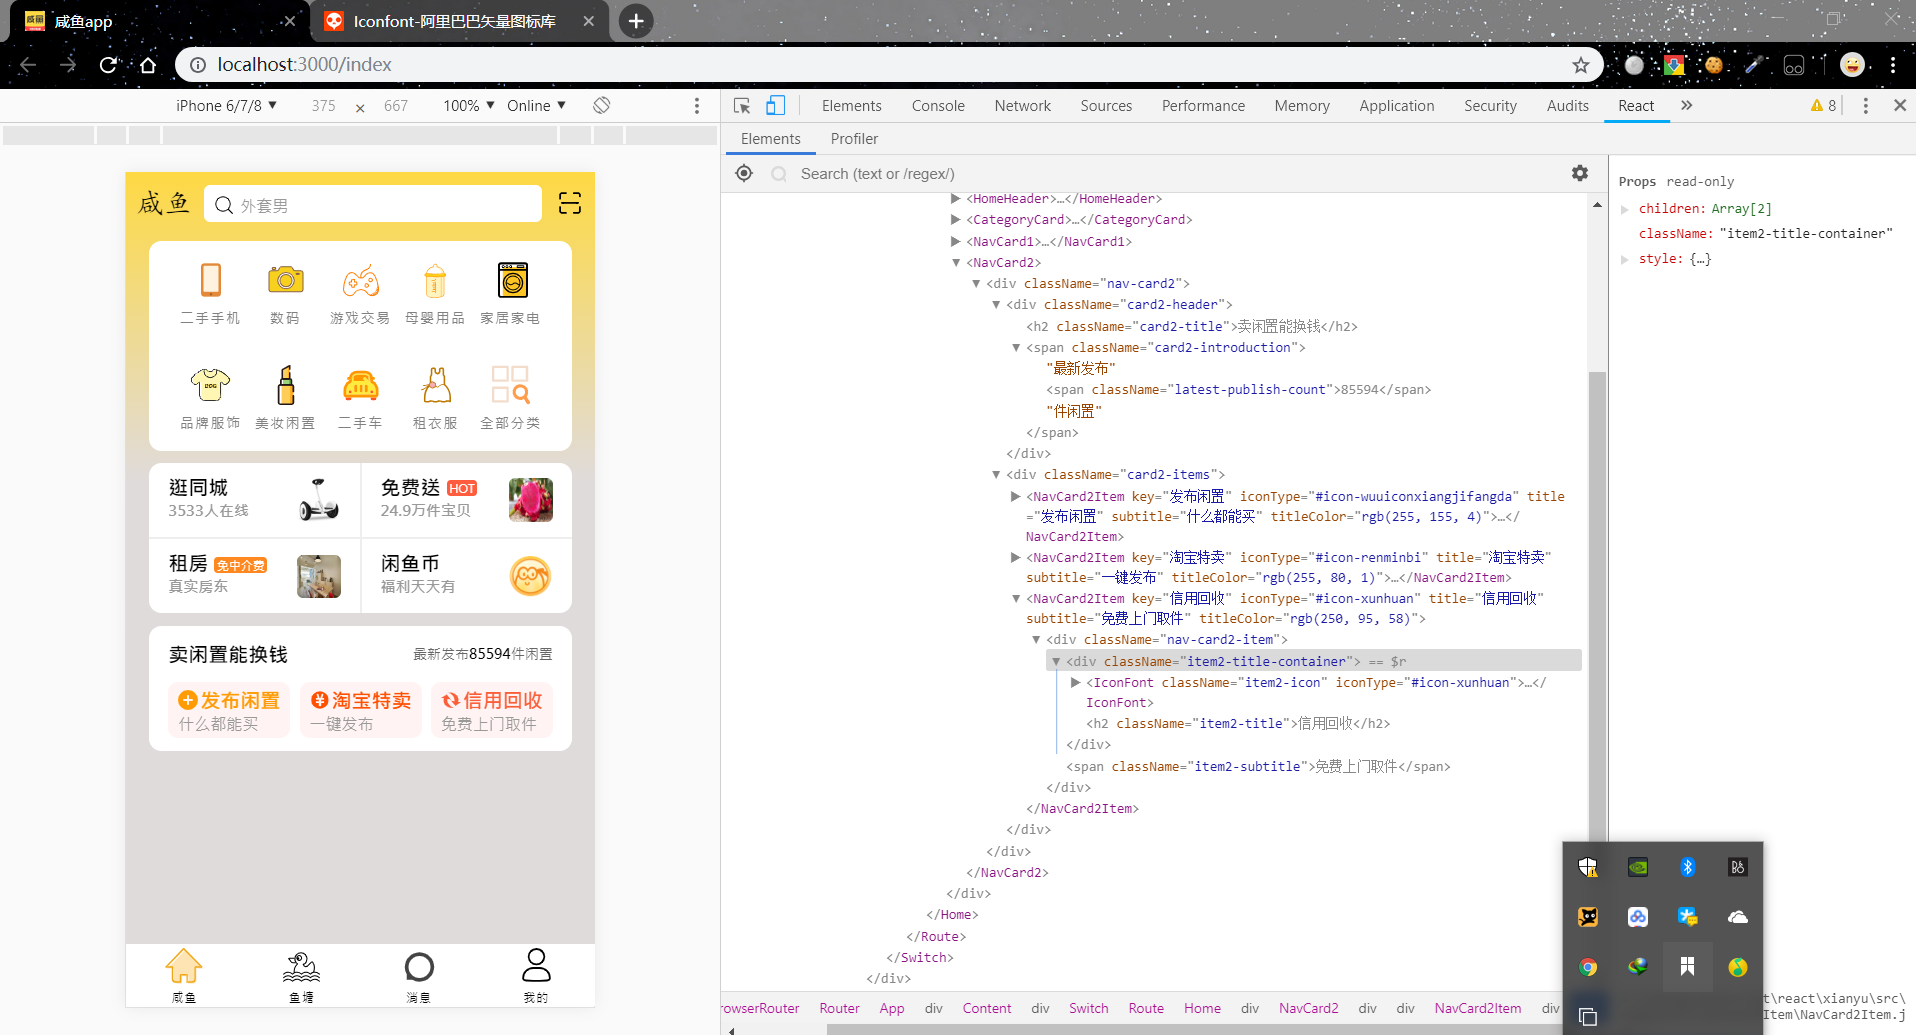
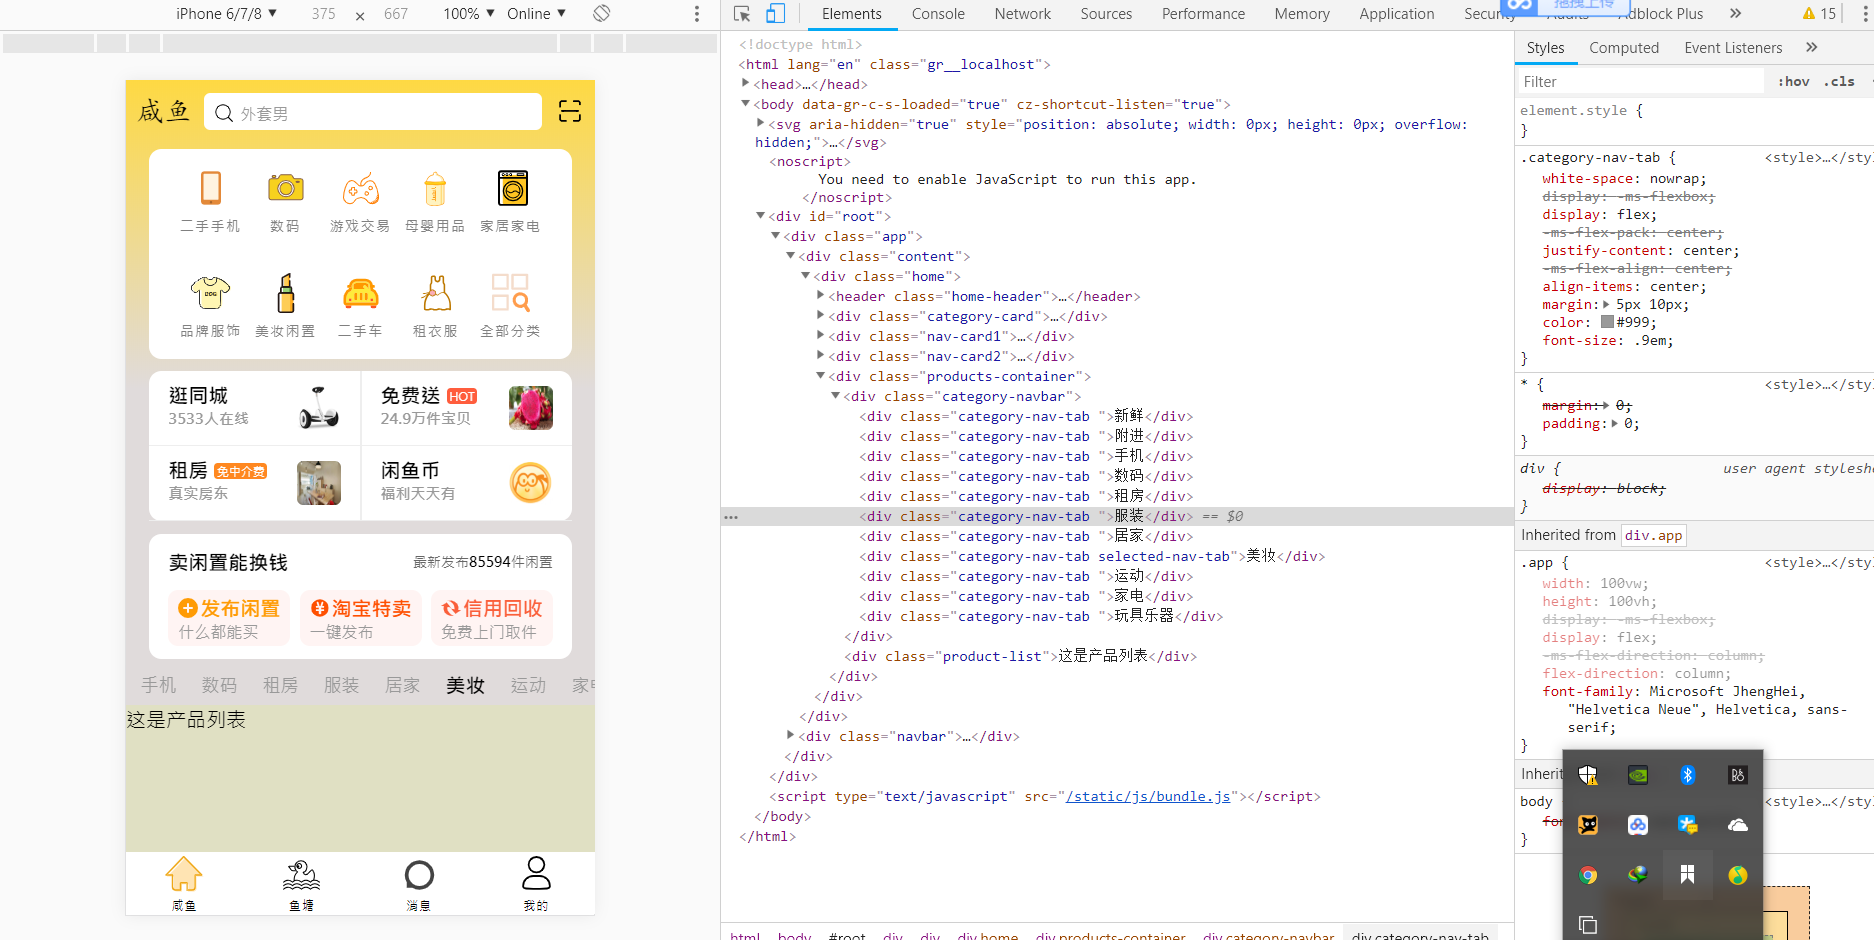
CategoryNavBar compeleted

diff --git a/src/components/categoryNavbar/CategoryNavBar.jsx b/src/components/categoryNavbar/CategoryNavBar.jsx
@@ -1,5 +1,6 @@
 import React, { Component } from 'react';
 import CategoryNavTab from '../categoryNavTab/categoryNavTab';
+import { findDOMNode } from 'react-dom';
 import PropTypes from 'prop-types';
 import './CategoryNavBar.scss'
 
@@ -8,10 +9,21 @@ export class CategoryNavBar extends Component {
 
     }
 
+    static updatePaths = {
+        NO_UPDATE: Symbol('No update, default'),
+        SELECT_CATEGORY: Symbol('select category ')
+    }
+
     constructor(props) {
-        super(props)
+        super(props);
 
         this.state = {
+            halfWindowWidth: document.body.clientWidth / 2 | 0,
+            navbarPadding: 15,
+            tabMarginX: 10,
+            scrollLeft: 0,
+            currentCategoryIndex: 0,
+            updatePath: CategoryNavBar.updatePaths.NO_UPDATE,
             categoryTabs: [
                 {
                     category: '新鲜',
@@ -58,38 +70,78 @@ export class CategoryNavBar extends Component {
                     isSelected: false
                 },
             ]
-        }
+        };
     }
 
-    handleSelect = (category, event) => {
-        console.log({ selected: category })
-        for (const tab of this.state.categoryTabs) {
+    handleSelect = (category) => {
+        let currentCategoryIndex;
+        this.state.categoryTabs.forEach((tab, index) => {
             if (tab.isSelected && tab.category === category) return;
             if (tab.category === category) {
                 tab.isSelected = true;
+                currentCategoryIndex = index;
             } else {
                 tab.isSelected = false;
             }
-        }
+        })
 
         this.setState({
-            categoryTabs: this.state.categoryTabs
+            updatePath: CategoryNavBar.updatePaths.SELECT_CATEGORY,
+            categoryTabs: this.state.categoryTabs,
+            currentCategoryIndex,
         });
-        console.log({ categoryTabs: this.state.categoryTabs});
     }
-    
+
+    componentDidUpdate() {
+        if (this.state.updatePath === CategoryNavBar.updatePaths.SELECT_CATEGORY) {
+            this.state.updatePath = CategoryNavBar.updatePaths.NO_UPDATE;
+            const tabs = this.state.categoryTabs;
+            const selectedTabIndex = this.state.currentCategoryIndex;
+            const halfWindowWidth = this.state.halfWindowWidth;
+
+            // 计算选中的标签中心距离类别导航栏最左边距离
+            let categoryNavbarLeft = this.state.navbarPadding;
+            for (let index = 0; index < selectedTabIndex; ++index) {
+                categoryNavbarLeft += tabs[index].width;
+                categoryNavbarLeft += this.state.tabMarginX * 2;
+            }
+            console.log({ selectedTabIndex, categoryNavbarLeft });
+            categoryNavbarLeft = categoryNavbarLeft + tabs[selectedTabIndex].width / 2 | 0;
+            console.log({ selectedTabIndex, categoryNavbarLeft });
+
+            // 如果选中标签中心距离最导航栏最左侧大于一半屏幕宽度要将选中元素居中
+            if (categoryNavbarLeft >  halfWindowWidth) {
+                let scrollLeft = this.state.scrollLeft;
+                scrollLeft = categoryNavbarLeft - this.state.halfWindowWidth - scrollLeft;
+                console.log({ scrollLeft, categoryNavbarLeft });
+                this.refs.categoryNavBar.scrollLeft = scrollLeft;
+            }
+        }
+    }
+
+    setTabWidth = (category, width) => {
+        this.state.categoryTabs.find(tab => tab.category === category).width = width;
+    }
+
     _renderCategories = __ => this.state.categoryTabs.map(categoryTab => (
         <CategoryNavTab
             key={categoryTab.category}
             category={categoryTab.category}
             isSelected={categoryTab.isSelected}
-            onSelect={this.handleSelect.bind(this, categoryTab.category)}
+            onSelect={this.handleSelect}
+            setTabWidth={this.setTabWidth}
         />
     ))
 
     render() {
         return (
-            <div className="category-navbar">
+            <div
+                ref="categoryNavBar"
+                className="category-navbar"
+                style={{
+                    left: this.state.scrollLeft
+                }}
+            >
                 {this._renderCategories()}
             </div>
         )

diff --git a/test/html/clickIndex.html b/test/html/clickIndex.html
@@ -1,0 +1,81 @@
+<!DOCTYPE html>
+<html lang="en">
+
+<head>
+    <meta charset="UTF-8">
+    <meta name="viewport" content="width=device-width, initial-scale=1.0">
+    <meta http-equiv="X-UA-Compatible" content="ie=edge">
+    <title>Document</title>
+    <style>
+        * {
+            margin: 0;
+            padding: 0;
+        }
+
+        .test-container {
+            width: 200px;
+            height: 1000px;
+            padding-top: 20px;
+            background-color: lightcoral;
+        }
+
+        .test {
+            margin: 0 auto;
+            width: 100px;
+            height: 200px;
+            padding-top: 20px;
+            background-color: blue;
+        }
+
+        .inner {
+            width: 20px;
+            height: 20px;
+            background-color: yellow;
+            margin: 0 auto;
+        }
+    </style>
+</head>
+
+<body>
+    <div class="test-container">
+        <div class="test">
+            <div class="inner"></div>
+        </div>
+    </div>
+    <script>
+        document.querySelector('.inner').addEventListener('click', (event) => {
+            console.log('inner', {
+                event,
+                screenX: event.screenX,
+                clientX: event.clientX,
+                pageX: event.pageX,
+                offsetX: event.offsetX,
+            });
+
+        });
+
+        document.querySelector('.test').addEventListener('click', (event) => {
+            console.log('test', {
+                event,
+                screenX: event.screenX,
+                clientX: event.clientX,
+                pageX: event.pageX,
+                offsetX: event.offsetX,
+
+            });
+
+        });
+
+        document.querySelector('.test-container').addEventListener('click', (event) => {
+            console.log('container', {
+                event,
+                screenX: event.screenX,
+                clientX: event.clientX,
+                pageX: event.pageX,
+                offsetX: event.offsetX,
+            });
+        });
+    </script>
+</body>
+
+</html>

diff --git a/src/components/categoryNavTab/categoryNavTab.jsx b/src/components/categoryNavTab/categoryNavTab.jsx
@@ -7,22 +7,37 @@ export class categoryNavTab extends Component {
         isSelected: PropTypes.bool.isRequired,
         category: PropTypes.string.isRequired,
         onSelect: PropTypes.func.isRequired,
+        setTabWidth: PropTypes.func.isRequired,
     }
 
-    constructor(props) {
-        super(props);
 
-        this.state = {
-            
-        }
+    handleClick = (event) => {
+        const clientX = event.clientX;
+        const offsetX = event.offsetX;
+        this.props.onSelect(this.props.category, clientX, offsetX);
     }
 
+    componentDidMount() {
+        this._setWidth();
+    }
+
+    componentDidUpdate() {
+        this._setWidth();
+    }
+
+
+    _setWidth = __ => {
+        const tabDOM = this.refs.categoryNavTab;
+        this.props.setTabWidth(this.props.category, tabDOM.clientWidth);
+        console.log({ category: this.props.category, width: tabDOM.clientWidth});
+    }
 
     render() {
         return (
-            <div 
-                className={ `category-nav-tab ${this.props.isSelected ? 'selected-nav-tab' : ''}`}
-                onClick={this.props.onSelect}
+            <div
+                className={`category-nav-tab ${this.props.isSelected ? 'selected-nav-tab' : ''}`}
+                ref="categoryNavTab"
+                onClick={this.handleClick}
             >
                 {this.props.category}
             </div>

diff --git a/src/components/categoryNavTab/categoryNavTab.scss b/src/components/categoryNavTab/categoryNavTab.scss
@@ -3,9 +3,17 @@
     display: flex;
     justify-content: center;
     align-items: center;
-    margin: 5px 10px;
+    margin: 0 10px;
     color: #999;
-    font-size: .9em;
+    font-size: .8em;
+}
+
+.category-nav-tab:nth-child(1) {
+    margin-left: 0px;
+}
+
+.category-nav-tab:nth-last-child(1) {
+    padding-right: 15px;
 }
 
 .selected-nav-tab {

diff --git a/src/components/categoryNavbar/CategoryNavBar.scss b/src/components/categoryNavbar/CategoryNavBar.scss
@@ -1,5 +1,13 @@
 .category-navbar {
     width: 100%;
+    position: relative;
     display: flex;
+    padding: 0 15px;
+    box-sizing: border-box;
     overflow-x: scroll;
+    transition: left 1s ease-in-out;
+}
+
+.category-navbar::-webkit-scrollbar {
+    display: none;
 }

diff --git a/src/container/content/Content.scss b/src/container/content/Content.scss
@@ -4,3 +4,7 @@
     background: linear-gradient(rgb(254, 217, 67), rgb(224, 219, 219) 40%);
     overflow-y: scroll;
 }
+
+.content::-webkit-scrollbar {
+    display: none;
+}
